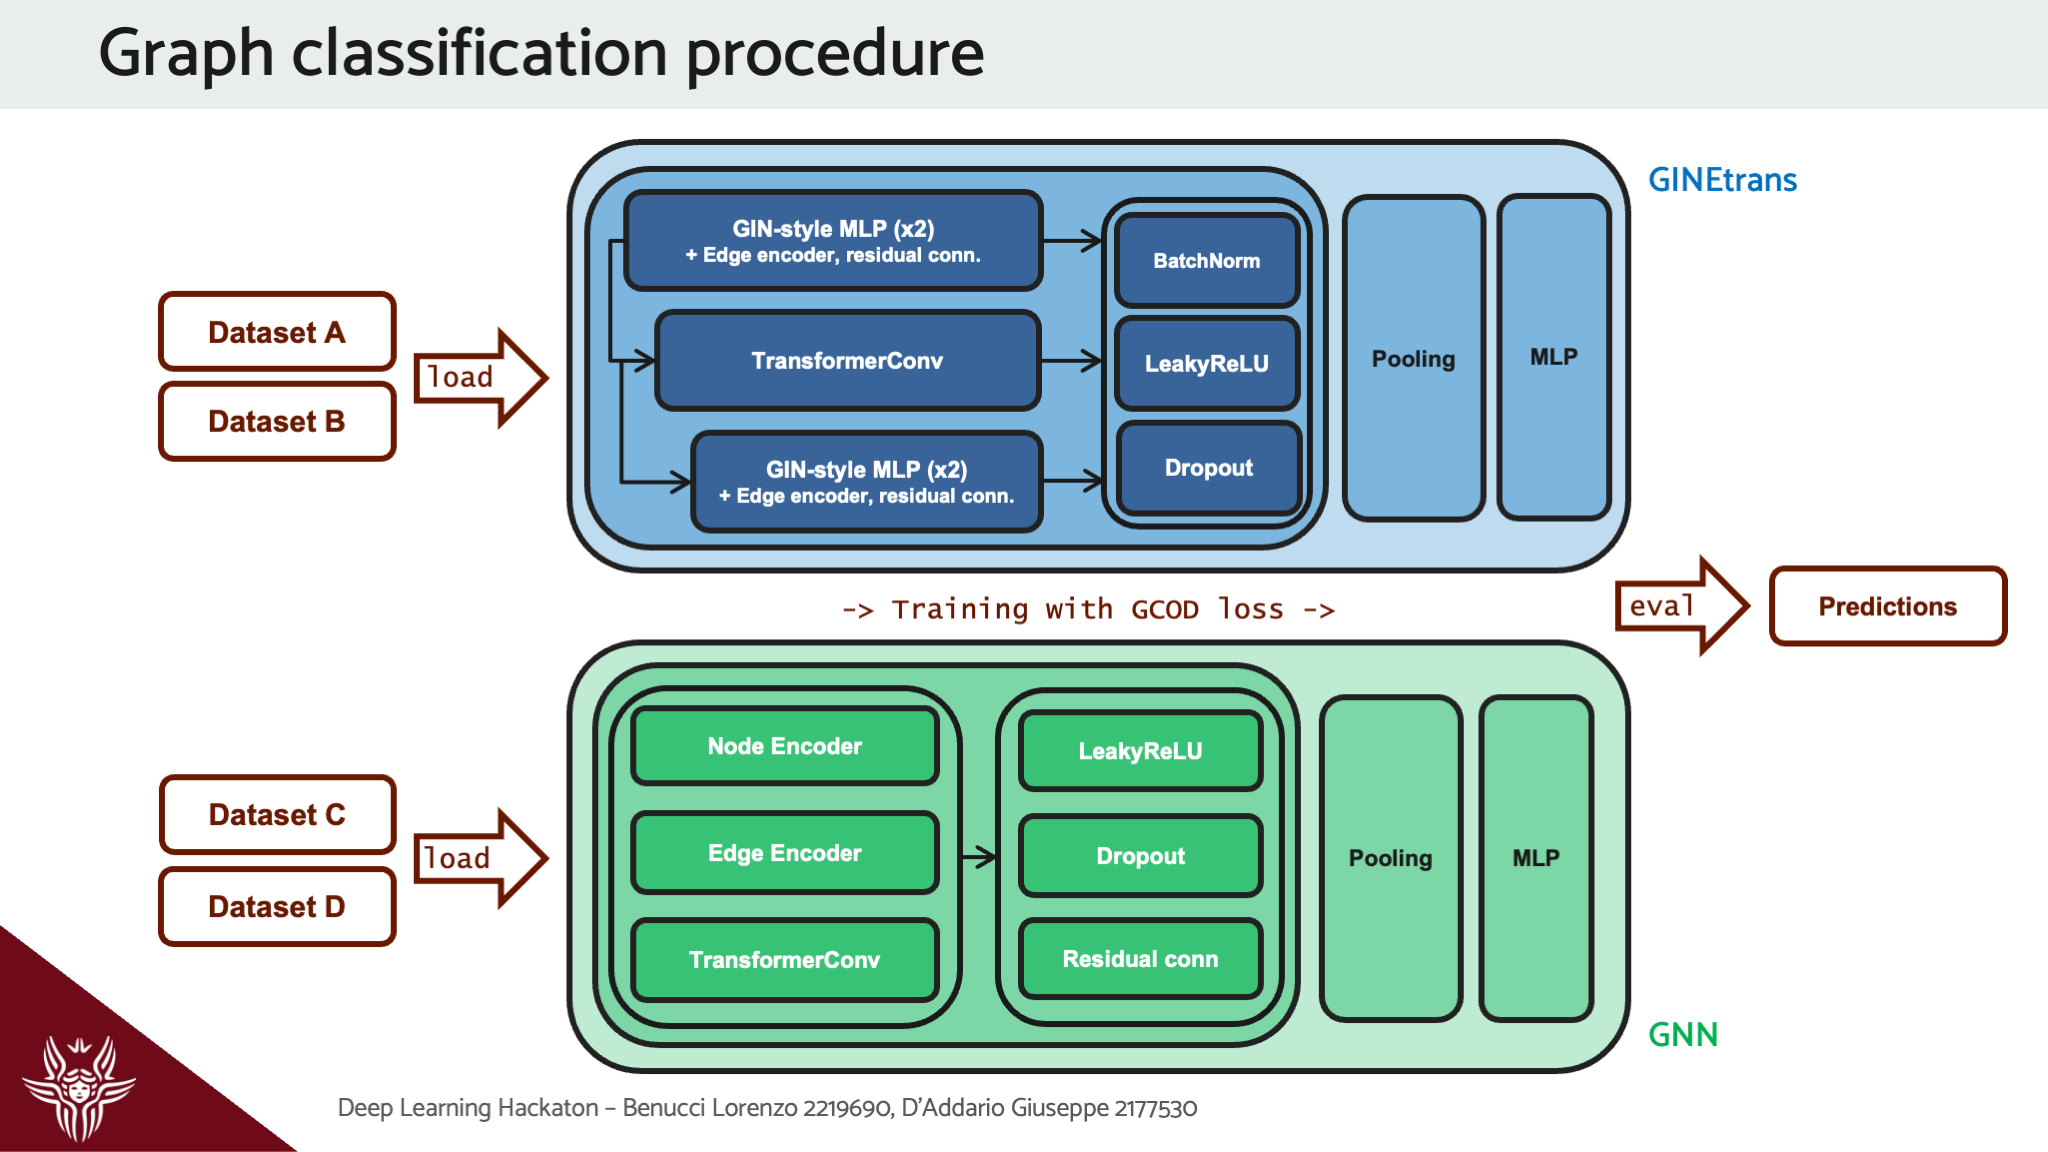
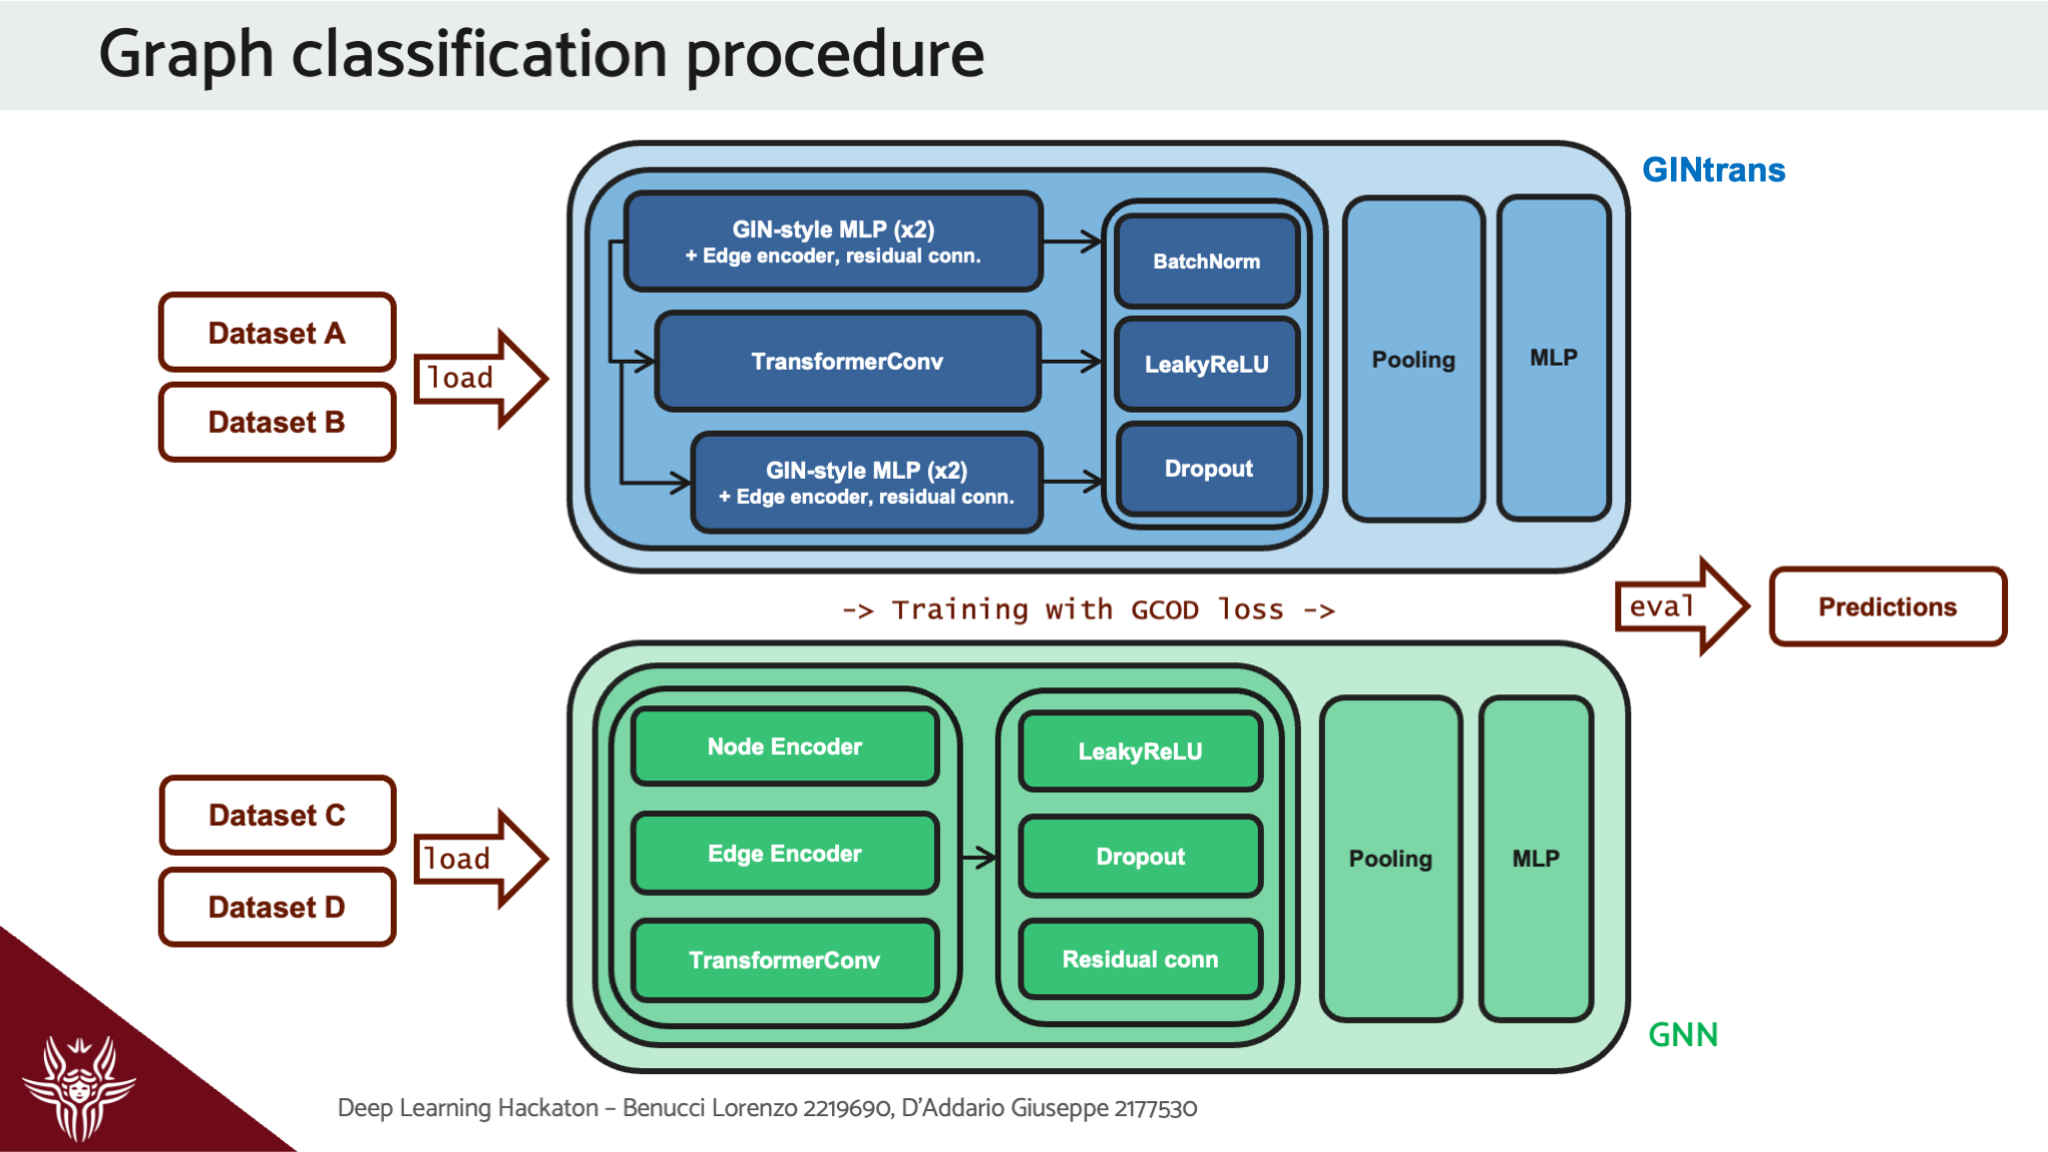
(refactor) final commit

diff --git a/README.md b/README.md
@@ -21,7 +21,7 @@ Two distinct strategies are proposed:
 
 * `GNN` model for C and D datasets
     
-* `GINE + transformer` model for A and B datasets
+* `GIN + transformer` model for A and B datasets
 ---
 
 
@@ -37,9 +37,9 @@ Two distinct strategies are proposed:
 
 
 
-*   **GINE + TRANSFORMER** [ *2xGIN → B.L.D. → TransConv → B.L.D. → 2xGIN → B.L.D. → Pooling → MLP*]
+*   **GIN + TRANSFORMER** [ *2xGIN → B.L.D. → TransConv → B.L.D. → 2xGIN → B.L.D. → Pooling → MLP*]
 
-    * **GINE** The GINE layers are fundamental for local neighborhood aggregation, capturing structural patterns around each node. Their strong discriminative power ensures that subtle topological differences across graphs are effectively encoded into the node and edge embeddings.
+    * **GIN** The GIN layers are fundamental for local neighborhood aggregation, capturing structural patterns around each node. Their strong discriminative power ensures that subtle topological differences across graphs are effectively encoded into the node and edge embeddings.
     * **B.L.D.** (***B**atchNorm-**L**eakyReLU-**D**ropout*) 
       * **BatchNorm** normalizes input embeddings increasing stability and training speed.
       * **Leaky ReLU** allows a small, non-zero gradient when the input is negative, helping to avoid the "dying neuron" problem.
